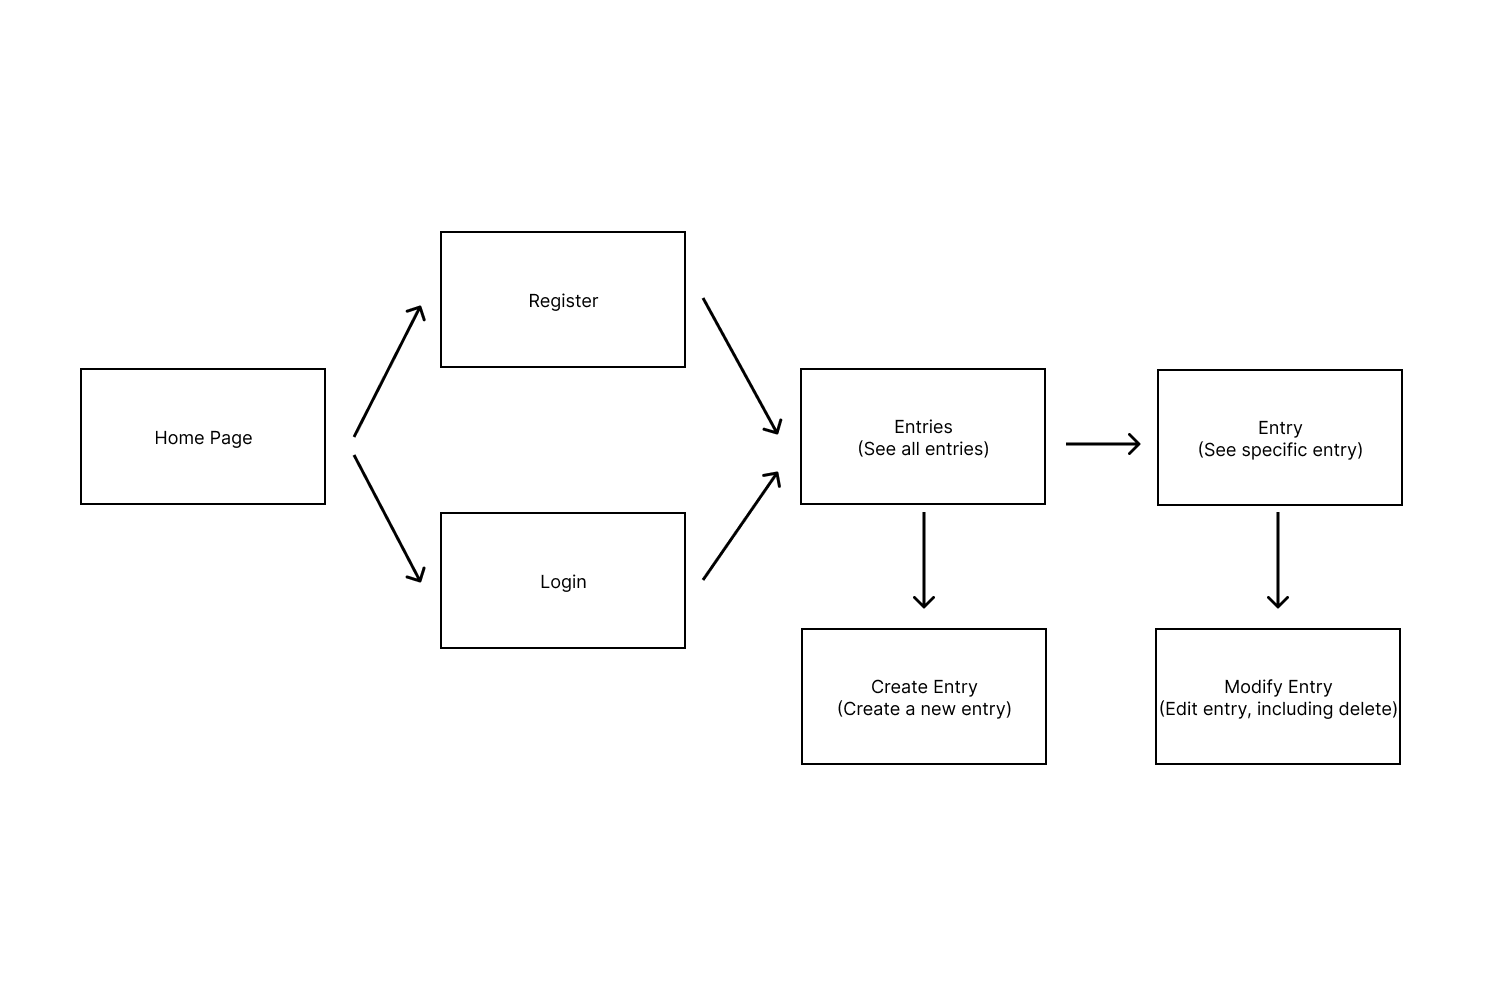
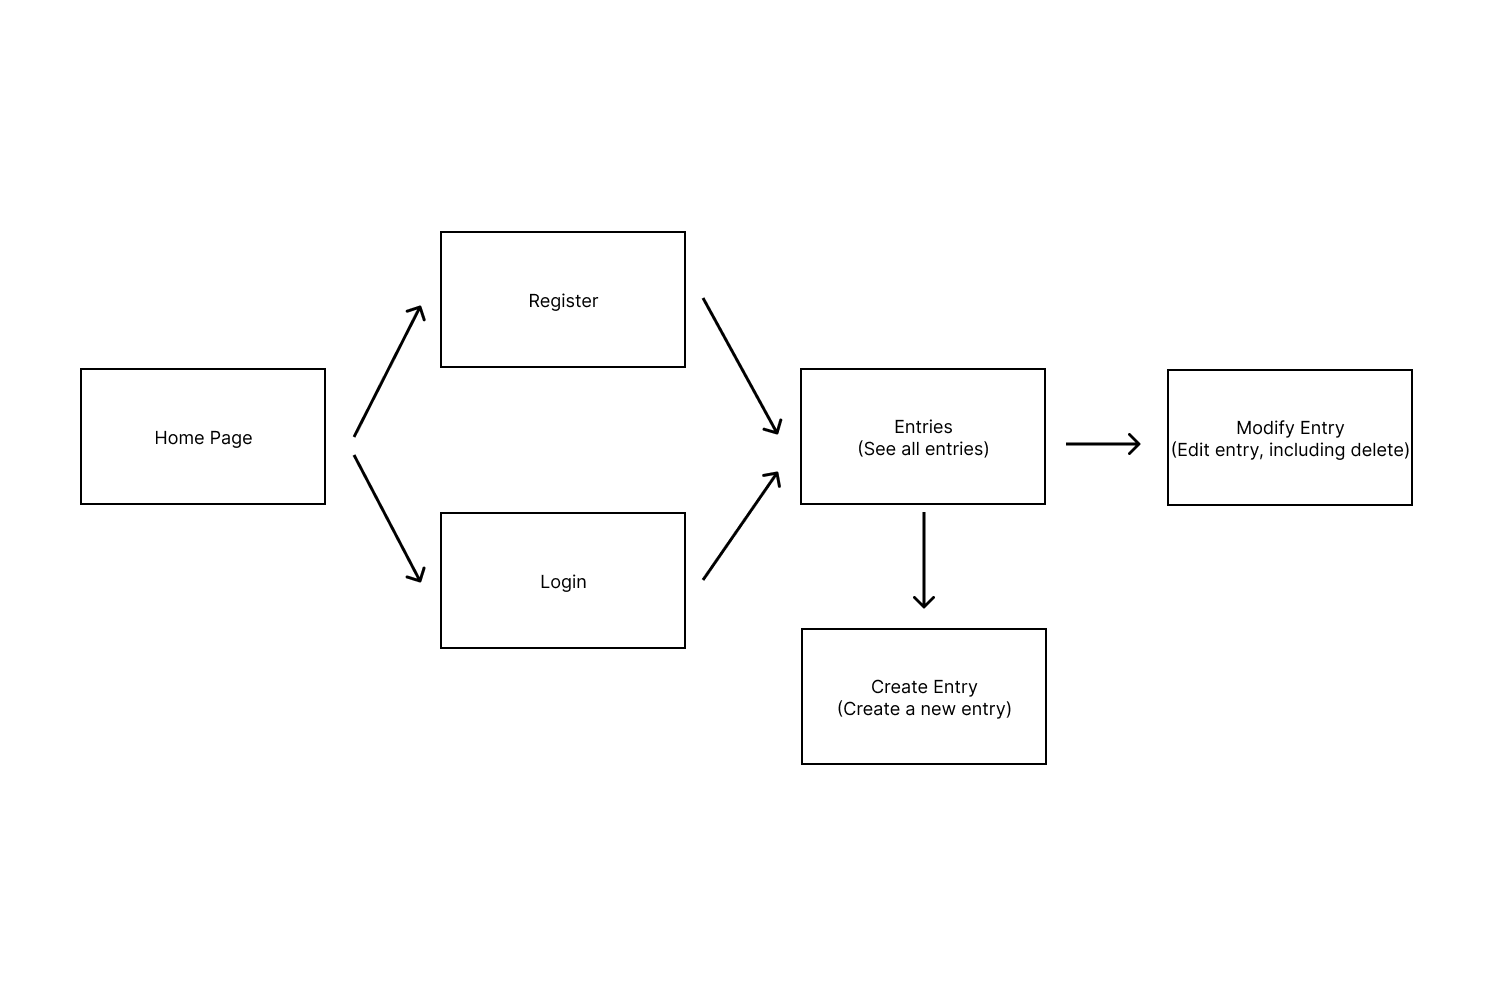
updated readme

Changed region(s): [[0.7771, 0.4277, 0.9325, 0.4888], [0.746, 0.6721, 0.9325, 0.7332], [0.8393, 0.5804, 0.8704, 0.6415]]

diff --git a/README.md b/README.md
@@ -2,6 +2,25 @@
 
 (Final web app name still to be finalized!)
 
+## Milestone 3 Update
+
+To access the forms, you must be logged in ("/login"). The login credentials have been included in the Google form, but are also here - username: "test", password: "password").
+
+Two working forms/AJAX interactions (besides login/registration):
+
+1. ("/entries") - This route shows all the user's entries. Implemented by making a background request. Code for this can be viewed [here](./client/src/components/AllEntries.jsx) and [here](./client/src/api.js)
+2. ("/create") - This route is for adding an entry to a user's log. After submitting the form, the user will be redirected to /entries, where the newly added entry can be viewed. Code for this can be viewed [here](./client/src/components/AddEntry.jsx) and [here](./client/src/api.js)
+3. ("/entry/625ee5f671a805db48ff86e5") - This route is for modifying (including deleting) a specific entry. After modifying or deleting, the user will be redirected to /entries, where the results of such actions can be viewed. Code for this can be viewed [here](./client/src/components/SingleEntry.jsx) and [here](./client/src/api.js)
+    1. Note: I think this might count as two different interactions because there is an option for modifying or deleting, which directs to a different route and action on the back-end.
+
+
+Significant Progress on Research Topics:
+1. As of Milestone 2, I had pretty much fully integrated Passport into my web app. For this milestone, I finished implementing logging out, which pretty much wraps up Passport. Code for that can be viewed [here](./passport_config.js) and [here](./auth.js)
+2. I have used my front-end framework, React. This milestone, I restructured my code to have better security (namely, seeing if a user is logged in and redirecting them to the appropriate routes depending on if they're logged in or not)
+3. I have customized Bootstrap through the theme-colors and font-family. Code for that can be seen [here](./client/src/scss/custom.scss)
+
+Code Changes: [HERE](https://github.com/nyu-csci-ua-0467-001-002-spring-2022/final-project-alicewang65/compare/706a5c9acc2a445776086a8216546b195f3f244a..a011eb3acd31f4139fc243e412d3d6b5fa34e374)
+
 ## Milestone 2 Update
 
 To access the form that isn't login/registration, you do need to be LOGGED IN. (Login credentials have been included in Google form, but they are also here -- username: "test", password: "password")
@@ -72,16 +91,13 @@ An Example Entry:
 /login - page for users to login to their account
 ![login/register page](documentation/login.png)
 
-/entries/slug - page for showing all entries
+/entries - page for showing all entries
 ![logs page](documentation/entries.png)
 
 /create - page for creating a new entry
 ![create an entry page](documentation/create.png)
 
-/view/slug - page for viewing an entry
-![view entry page](documentation/entry.png)
-
-/modify - page for modifying an entry
+/entry/:id - page for modifying an entry
 ![modify entry page](documentation/modify.png)
 
 
@@ -116,25 +132,20 @@ An Example Entry:
     * Bootstrap makes it easy to quickly integrate CSS into different elements (overall makes it easier to have a nice looking page)
     * Per the requirements, I will be configuring a theme and playing around with other customization
     * Point value assigned based on the requirements
-* (3 points) Formik --- PROBABLY NOT GOING TO DO BUT NOT TOTALLY SURE YET...
-    * Formik is a library that helps make client-side form validation easier, specifically for React apps
-    * For a more integrated and smooth user experience, I'm using Formik for the form validation, especially since my site will consist of quite a few forms.
-    * I'm not totally sure if it the errors are integrated into the DOM (following up on that in the next few days with Professor Versoza)
-    * Point value assigned based on the requirements
 
-15 points total out of 8 required points
+12 points total out of 8 required points
 
 
 ## Links to Project
 
 ### Backend
-* [main page for backend](.index.js)
-* [page for additional routes](.routes.js)
-* [passport local strategy setup](.passport_config.js)
-* [login/register routes](.auth.js)
+* [main page for backend](./app.js)
+* [page for additional routes](./routes.js)
+* [passport local strategy setup](./passport_config.js)
+* [login/register routes](./auth.js)
 
 ### Frontend
-* [main page for frontend](./client/index.js)
+* [main page for frontend](./client/src/index.js)
 * [folder of components](./client/src/components)
 * [api for interacting with backend](./client/src/api.js)
 
@@ -161,15 +172,23 @@ These are links to tutorials that were referenced for specific implementations. 
 These are links to specific issues I ran into while implementing my web app. These articles/posts helped me resolved bugs and troubleshoot general errors.
 
 1. [Stack Overflow Post](https://stackoverflow.com/questions/63152640/passport-js-sessions-react-accessing-req-user-from-any-route-other-than-th) - Issue with req.user information not persisting after logging in (using Passport). Resolved by adding ```{withCredentials: true}``` to the requesets that need the user info AND the login request (most important). Link to code where I added this [here](./client/src/api.js)
+2. [Imports for Customizing Bootstrap](https://designmodo.com/bootstrap-react-sass/#installing-bootstrap-5) - Had an issue with what imports/general configuration to get customized Bootstrap set up. Referred to this for the import statements. Link to code where I used this info is [here](./client/src/index.js) and [here](./client/src/scss/custom.scss)
+3. [Custom Fonts for Bootstrap](https://bootstrap.themes.guide/how-to-create-bootstrap-themes.html) - Referenced part of this article to see how to import custom fonts for Bootstrap. Link to code where I used this info is [here](./client/src/scss/custom.scss)
 
 ### Documentation
 
 These are links to general documentation for different libraries/features used throughout my app. There wasn't specific code based off these. Rather, these docs were mainly used to figure out how specific methods work.
 
 1. [Passport Documentation](http://passportjs.org/docs) -- Being completely honest, this documentation didn't help at all. Very little useful info :(
+    1. Used mainly for code in [auth.js](./auth.js)
 2. [React Documentation](https://reactjs.org/docs/getting-started.html)
+    1. Used throughout client-side code, see the client folder
 3. [React Router Documentation](https://reactrouter.com/docs/en/v6)
+    1. Used throughout client-side code, see the client folder
 4. [Bootstrap Documentation](https://getbootstrap.com/docs/5.1/getting-started/introduction/)
-5. [Formik Documentation](https://formik.org/docs/overview)
+    1. Used throughout client-side code, see client folder, specifically components folder
+5. [Bootstrap Customization](https://getbootstrap.com/docs/5.1/customize/sass/)
+    1. Used to customize Bootstrap, see [custom.scss](./client/src/scss/custom.scss)
 6. [Axios Documentation](https://axios-http.com/docs/intro)
+    1. Used mainly for api-related code, see [api.js](./client/src/api.js)
 7. [Markdown Cheatsheet](https://github.com/tchapi/markdown-cheatsheet/blob/master/README.md) -- referenced to format this README
